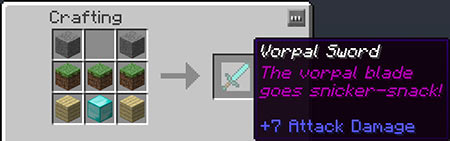
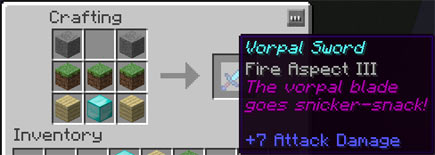
Add enchantments

diff --git a/src/main/java/me/eccentric_nz/mixturis/MixturisShapedRecipe.java b/src/main/java/me/eccentric_nz/mixturis/MixturisShapedRecipe.java
@@ -6,6 +6,8 @@ package me.eccentric_nz.mixturis;
 import java.util.Arrays;
 import java.util.Set;
 import org.bukkit.Material;
+import org.bukkit.enchantments.Enchantment;
+import org.bukkit.enchantments.EnchantmentWrapper;
 import org.bukkit.inventory.ItemStack;
 import org.bukkit.inventory.ShapedRecipe;
 import org.bukkit.inventory.meta.ItemMeta;
@@ -41,6 +43,8 @@ public class MixturisShapedRecipe {
          amount: 1
          displayname: true
          lore: "The vorpal blade\ngoes snicker-snack!"
+         enchantment: FIRE_ASPECT
+         strength: 3
          */
         String[] result_iddata = plugin.getRecipesConfig().getString("shaped." + s + ".result").split(":");
         int result_id = Integer.parseInt(result_iddata[0]);
@@ -53,12 +57,22 @@ public class MixturisShapedRecipe {
         } else {
             is = new ItemStack(mat, amount);
         }
+        ItemMeta im = is.getItemMeta();
+        boolean set_meta = false;
         if (plugin.getRecipesConfig().getBoolean("shaped." + s + ".displayname")) {
-            ItemMeta im = is.getItemMeta();
             im.setDisplayName(s);
             if (!plugin.getRecipesConfig().getString("shaped." + s + ".lore").equals("")) {
                 im.setLore(Arrays.asList(plugin.getRecipesConfig().getString("shaped." + s + ".lore").split("\n")));
             }
+            set_meta = true;
+        }
+        if (!plugin.getRecipesConfig().getString("shaped." + s + ".enchantment").equals("NONE")) {
+            Enchantment e = EnchantmentWrapper.getByName(plugin.getRecipesConfig().getString("shaped." + s + ".enchantment"));
+            boolean did = im.addEnchant(e, plugin.getRecipesConfig().getInt("shaped." + s + ".strength"), true);
+            System.out.println((did) ? "true" : "false");
+            set_meta = true;
+        }
+        if (set_meta) {
             is.setItemMeta(im);
         }
         ShapedRecipe r = new ShapedRecipe(is);

diff --git a/src/main/java/me/eccentric_nz/mixturis/MixturisFurnaceRecipe.java b/src/main/java/me/eccentric_nz/mixturis/MixturisFurnaceRecipe.java
@@ -6,6 +6,8 @@ package me.eccentric_nz.mixturis;
 import java.util.Arrays;
 import java.util.Set;
 import org.bukkit.Material;
+import org.bukkit.enchantments.Enchantment;
+import org.bukkit.enchantments.EnchantmentWrapper;
 import org.bukkit.inventory.FurnaceRecipe;
 import org.bukkit.inventory.ItemStack;
 import org.bukkit.inventory.meta.ItemMeta;
@@ -47,12 +49,21 @@ public class MixturisFurnaceRecipe {
         } else {
             is = new ItemStack(result_m, 1);
         }
+        ItemMeta im = is.getItemMeta();
+        boolean set_meta = false;
         if (plugin.getRecipesConfig().getBoolean("furnace." + s + ".displayname")) {
-            ItemMeta im = is.getItemMeta();
             im.setDisplayName(s);
             if (!plugin.getRecipesConfig().getString("furnace." + s + ".lore").equals("")) {
                 im.setLore(Arrays.asList(plugin.getRecipesConfig().getString("furnace." + s + ".lore").split("\n")));
             }
+            set_meta = true;
+        }
+        if (!plugin.getRecipesConfig().getString("furnace." + s + ".enchantment").equals("NONE")) {
+            Enchantment e = EnchantmentWrapper.getByName(plugin.getRecipesConfig().getString("furnace." + s + ".enchantment"));
+            im.addEnchant(e, plugin.getRecipesConfig().getInt("furnace." + s + ".strength"), true);
+            set_meta = true;
+        }
+        if (set_meta) {
             is.setItemMeta(im);
         }
         String[] ingredient = plugin.getRecipesConfig().getString("furnace." + s + ".recipe").split(":");

diff --git a/src/main/java/me/eccentric_nz/mixturis/MixturisShapelessRecipe.java b/src/main/java/me/eccentric_nz/mixturis/MixturisShapelessRecipe.java
@@ -6,6 +6,8 @@ package me.eccentric_nz.mixturis;
 import java.util.Arrays;
 import java.util.Set;
 import org.bukkit.Material;
+import org.bukkit.enchantments.Enchantment;
+import org.bukkit.enchantments.EnchantmentWrapper;
 import org.bukkit.inventory.ItemStack;
 import org.bukkit.inventory.ShapelessRecipe;
 import org.bukkit.inventory.meta.ItemMeta;
@@ -49,12 +51,21 @@ public class MixturisShapelessRecipe {
         } else {
             is = new ItemStack(mat, amount);
         }
+        ItemMeta im = is.getItemMeta();
+        boolean set_meta = false;
         if (plugin.getRecipesConfig().getBoolean("shapeless." + s + ".displayname")) {
-            ItemMeta im = is.getItemMeta();
             im.setDisplayName(s);
             if (!plugin.getRecipesConfig().getString("shapeless." + s + ".lore").equals("")) {
                 im.setLore(Arrays.asList(plugin.getRecipesConfig().getString("shapeless." + s + ".lore").split("\n")));
             }
+            set_meta = true;
+        }
+        if (!plugin.getRecipesConfig().getString("shapeless." + s + ".enchantment").equals("NONE")) {
+            Enchantment e = EnchantmentWrapper.getByName(plugin.getRecipesConfig().getString("shapeless." + s + ".enchantment"));
+            im.addEnchant(e, plugin.getRecipesConfig().getInt("shapeless." + s + ".strength"), true);
+            set_meta = true;
+        }
+        if (set_meta) {
             is.setItemMeta(im);
         }
         ShapelessRecipe r = new ShapelessRecipe(is);

diff --git a/README.md b/README.md
@@ -26,6 +26,8 @@ shaped:
         amount: 1
         displayname: true
         lore: "The vorpal blade\ngoes snicker-snack!"
+        enchantment: FIRE_ASPECT
+        strength: 3
 ```
 
 All shaped recipes should be entered in the `shaped:` configuraion section.
@@ -42,8 +44,10 @@ All shaped recipes should be entered in the `shaped:` configuraion section.
 * `lore` if the item should display custom lore, you can add it here (it will only be added if `displayname` is set to `true`)
    * to add multiple lines of lore, separate them with `/n`
    * Use an empty string `""` to have a display name but no lore
+* `enchantment` is the enchantment the crafted item should be given - set to `NONE` for no enchantment
+* `strength` is the level the enchantment should be
 
-The shaped recipe example above will craft a diamond sword called "Vorpal Sword" with the lore (on two lines) "The vorpal blade goes snicker-snack!". The recipe is shown in the crafting grid.
+The shaped recipe example above will craft a diamond sword called "Vorpal Sword" with the lore (on two lines) "The vorpal blade goes snicker-snack!" and a level 3 Fire Aspect enchantment. The recipe is shown in the crafting grid.
 
 ![screen shot](https://github.com/eccentricdevotion/Mixturis/blob/master/src/images/vorpalsword.jpg?raw=true "Vorpal Sword")
 
@@ -59,6 +63,8 @@ shapeless:
         amount: 1
         displayname: false
         lore: ""
+        enchantment: NONE
+        strength: 0
 ```
 
 All shapeless recipes should be entered in the `shapeless:` configuraion section.
@@ -66,7 +72,7 @@ All shapeless recipes should be entered in the `shapeless:` configuraion section
 
 * `Slime:` is the name of the recipe and the resulting crafted item (if `displayname` is set to `true`)
 * `recipe` is a simple comma separated list of item IDs (and optional data values)
-* `result`, `amount`, `displayname`, and `lore` are the same as for [Shaped recipes](#shaped-recipes) above
+* `result`, `amount`, `displayname`, `lore`, `enchantment`, and `strength` are the same as for [Shaped recipes](#shaped-recipes) above
 
 The shapeless recipe example above will craft a slimeball without a custom name and lore. The recipe is three VINE in any crafting slot.
 
@@ -83,13 +89,15 @@ furnace:
         result: '35:15'
         displayname: true
         lore: "Done to a crisp"
+        enchantment: NONE
+        strength: 0
 ```
 
 All furnace recipes should be entered in the `furnace:` configuraion section.
 
 * `Nuclear Wool:` is the name of the recipe and the resulting smelted item (if `displayname` is set to `true`)
 * `recipe` is a the item ID (and optional data value) of the block to be smelted
-* `result`, `displayname`, and `lore` are the same as for [Shaped recipes](#shaped-recipes) above
+* `result`, `displayname`, `lore`, `enchantment`, and `strength` are the same as for [Shaped recipes](#shaped-recipes) above
 
 The furnace recipe example above will smelt WHITE WOOL into BLACK WOOL  with the name "Nuclear Wool" and lore "Done to a crisp".
 
